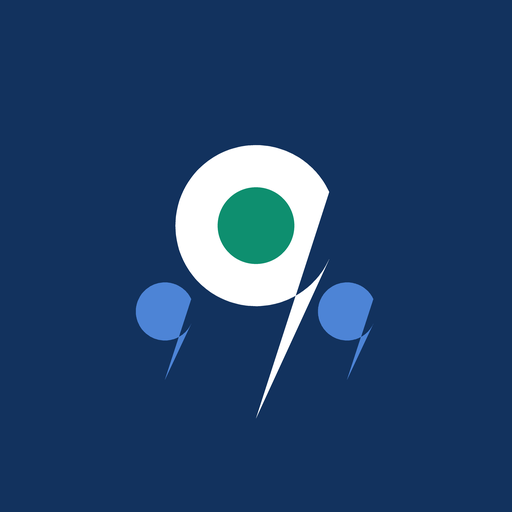
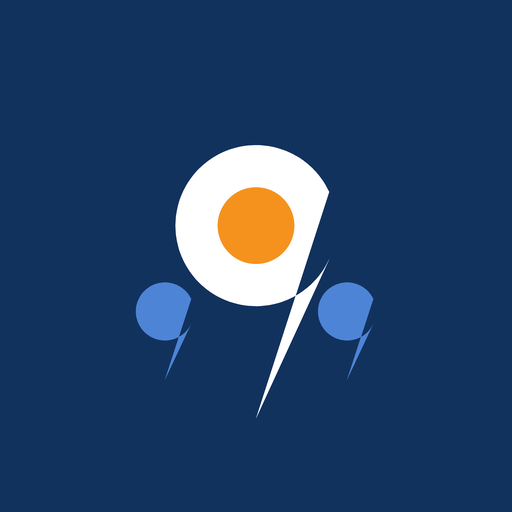
Add files via upload

Changed region(s): [[0.4062, 0.3438, 0.5938, 0.5312]]

diff --git a/index.html b/index.html
@@ -6,9 +6,9 @@
 <meta name="theme-color" content="#12325e">
 <title>MyDealer</title>
 <link rel="manifest" href="manifest.webmanifest">
-<link rel="icon" href="icon.svg" type="image/svg+xml">
-<link rel="icon" href="icon-192.png" sizes="192x192">
-<link rel="apple-touch-icon" href="icon-192.png">
+<link rel="icon" href="icon.svg?v=8" type="image/svg+xml">
+<link rel="icon" href="icon-192.png?v=8" sizes="192x192">
+<link rel="apple-touch-icon" href="icon-192.png?v=8">
 <link rel="stylesheet" href="vendor/leaflet.css">
 <link rel="stylesheet" href="vendor/markercluster.css">
 <link rel="stylesheet" href="vendor/markercluster.default.css">
@@ -27,6 +27,8 @@ input,select,textarea{font:inherit;color:var(--ink)}
 header{position:sticky;top:0;z-index:900;background:var(--pri);color:#fff;padding:10px 12px 8px;padding-top:calc(10px + env(safe-area-inset-top))}
 .hrow{display:flex;align-items:center;gap:8px}
 .logo{font-size:18px;font-weight:800;letter-spacing:.3px}
+#btnHome{flex:0 0 auto;color:#fff;font-size:26px;line-height:1;padding:0 4px 4px;margin-left:-4px}
+#btnHome[hidden]{display:none}
 .mark{flex:0 0 auto;width:26px;height:26px;display:block}
 .mark svg{width:100%;height:100%;display:block}
 .logo small{font-weight:400;opacity:.75;font-size:11px;margin-left:6px}
@@ -174,6 +176,10 @@ h4.sec{font-size:13px;color:var(--mut);margin:14px 2px 8px;text-transform:upperc
 .hhead{display:flex;align-items:baseline;justify-content:space-between;gap:10px;padding:12px 13px 0}
 .hhead h3{font-size:14px;font-weight:800}
 .hhead small{font-size:11px;color:var(--mut);text-align:right;flex:0 0 auto}
+.hsel{display:grid;grid-template-columns:1fr 1fr;gap:8px;padding:11px 13px 2px}
+.hsel label{display:block;font-size:11px;color:var(--mut);font-weight:700}
+.hsel label:last-child{grid-column:1/-1}
+.hsel select{width:100%;margin-top:4px;border:1px solid var(--line);border-radius:10px;padding:8px 9px;font-size:13.5px;font-weight:700;background:var(--card)}
 .hpivots{display:flex;gap:6px;overflow-x:auto;padding:10px 13px 11px;scrollbar-width:none}
 .hpivots::-webkit-scrollbar{display:none}
 .hp{flex:0 0 auto;background:var(--chip);color:var(--pri2);font-size:12.5px;font-weight:700;padding:7px 13px;border-radius:99px;white-space:nowrap;border:1px solid transparent}
@@ -216,7 +222,7 @@ nav button i{font-size:18px}
 <body>
 <header>
   <div class="hrow">
-    <span class="mark" aria-hidden="true"><svg viewBox="0 0 512 512"><path d="M118 340a44 44 0 1 1 88 0c0 30-44 103-44 103S118 370 118 340z" fill="#4d84d6"/><path d="M306 340a44 44 0 1 1 88 0c0 30-44 103-44 103s-44-73-44-103z" fill="#4d84d6"/><path d="M134 210a122 122 0 1 1 244 0c0 84-122 292-122 292S134 294 134 210z" fill="#fff"/><circle cx="256" cy="210" r="58" fill="#0e8f6f"/></svg></span><span class="logo">MyDealer<small id="whoami">bayi rehberi</small></span>
+    <button id="btnHome" title="Ana sayfaya dön" hidden>‹</button><span class="mark" aria-hidden="true"><svg viewBox="0 0 512 512"><path d="M118 340a44 44 0 1 1 88 0c0 30-44 103-44 103S118 370 118 340z" fill="#4d84d6"/><path d="M306 340a44 44 0 1 1 88 0c0 30-44 103-44 103s-44-73-44-103z" fill="#4d84d6"/><path d="M134 210a122 122 0 1 1 244 0c0 84-122 292-122 292S134 294 134 210z" fill="#fff"/><circle cx="256" cy="210" r="58" fill="#f5921e"/></svg></span><span class="logo">MyDealer<small id="whoami">bayi rehberi</small></span>
     <button id="btnSync" title="Sunucudan yenile" style="display:none;font-size:16px;padding:2px 8px">⟳</button>
     <span id="count"></span>
   </div>
@@ -231,6 +237,7 @@ nav button i{font-size:18px}
   <section id="view-home" class="view on">
     <div class="hcard">
       <div class="hhead"><h3>Sorgu · pivot ile ara</h3><small id="hUpd"></small></div>
+      <div class="hsel"><label>Bölge<select id="hBolge"></select></label><label>Şehir<select id="hSehir"></select></label><label>İlçe<select id="hIlce"></select></label></div>
       <div class="hpivots" id="hPivots"></div>
       <div class="hscope"><select id="hScope" aria-label="Seçili kırılım"></select></div>
       <div class="hstats" id="hStats"></div>

diff --git a/app.js b/app.js
@@ -713,6 +713,7 @@ function applyRoleUI() {
   $('#whoami').textContent = SRV ? `${SRV.name} · ${isAdmin() ? 'yönetici' : 'saha'}` : 'bayi rehberi';
   $('#pendBadge').textContent = SRV && SRV.pendingCount ? String(SRV.pendingCount) : '';
   $('#fab').style.display = (viewNow === 'list' || viewNow === 'home') ? '' : 'none';
+  $('#btnHome').hidden = viewNow === 'home';
 }
 async function syncData(sessiz) {
   if (!TOKEN) return false;
@@ -750,6 +751,7 @@ document.querySelectorAll('nav button').forEach(btn => btn.addEventListener('cli
   viewNow = btn.dataset.v;
   document.querySelectorAll('.view').forEach(v => v.classList.toggle('on', v.id === 'view-' + viewNow));
   $('#fab').style.display = (viewNow === 'list' || viewNow === 'home') ? '' : 'none';
+  $('#btnHome').hidden = viewNow === 'home';
   if (viewNow === 'map' && mapDirty) buildMap();
   else if (viewNow === 'map') setTimeout(() => map && map.invalidateSize(), 60);
   if (viewNow === 'stats') renderStats();
@@ -967,6 +969,16 @@ function renderHome() {
   if (home.scope && !gs.some(g => g[0] === home.scope)) home.scope = '';
   const dimLabel = (HDIMS.find(d => d[0] === home.dim) || HDIMS[0])[1];
 
+  const _all = allDealers();
+  const _uniq = k => [...new Set(_all.map(b => b[k]).filter(Boolean))].sort((a, b) => a.localeCompare(b, 'tr'));
+  fillSelect($('#hBolge'), _uniq('bolge'), F.bolge, 'Bölge');
+  fillSelect($('#hSehir'), F.bolge
+    ? [...new Set(_all.filter(b => b.bolge === F.bolge).map(b => b.sehir).filter(Boolean))].sort((a, b) => a.localeCompare(b, 'tr'))
+    : _uniq('sehir'), F.sehir, 'Şehir');
+  fillSelect($('#hIlce'), F.sehir
+    ? [...new Set(_all.filter(b => b.sehir === F.sehir).map(b => b.ilce).filter(Boolean))].sort((a, b) => a.localeCompare(b, 'tr'))
+    : [], F.ilce, F.sehir ? 'İlçe' : 'İlçe (önce şehir)');
+
   $('#hPivots').innerHTML = HDIMS.map(d =>
     `<button class="hp ${home.dim === d[0] ? 'on' : ''}" data-hdim="${d[0]}">${d[1]}</button>`).join('');
 
@@ -1063,6 +1075,10 @@ $('#hPivots').addEventListener('click', e => {
   const b = e.target.closest('[data-hdim]'); if (!b) return;
   home.dim = b.dataset.hdim; home.scope = ''; renderHome();
 });
+$('#hBolge').addEventListener('change', e => { F.bolge = e.target.value; F.sehir = ''; F.ilce = ''; home.scope = ''; buildFilters(); applyFilters(); });
+$('#hSehir').addEventListener('change', e => { F.sehir = e.target.value; F.ilce = ''; home.scope = ''; buildFilters(); applyFilters(); });
+$('#hIlce').addEventListener('change', e => { F.ilce = e.target.value; home.scope = ''; buildFilters(); applyFilters(); });
+$('#btnHome').addEventListener('click', () => document.querySelector('nav button[data-v="home"]').click());
 $('#hScope').addEventListener('change', e => { home.scope = e.target.value; renderHome(); });
 $('#hDist').addEventListener('click', e => {
   const tr = e.target.closest('[data-hrow]'); if (!tr) return;

diff --git a/sw.js b/sw.js
@@ -1,4 +1,4 @@
-const CACHE = 'mydealer-v7';
+const CACHE = 'mydealer-v8';
 const ASSETS = [
   './', './index.html', './app.js', './data.js', './manifest.webmanifest',
   './icon-192.png', './icon-512.png', './icon-maskable.png', './icon.svg',
